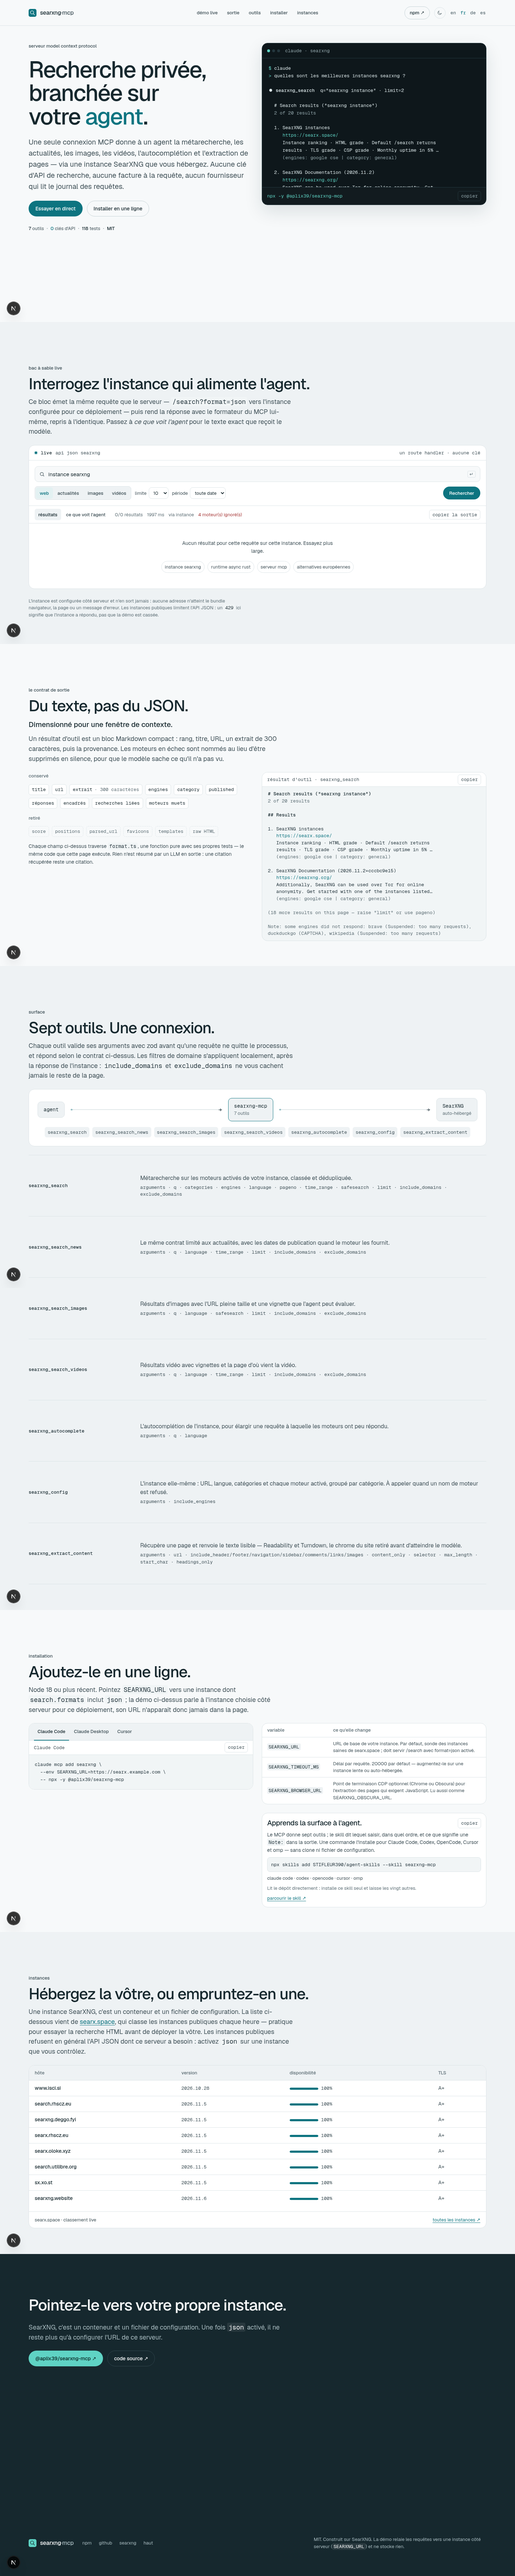
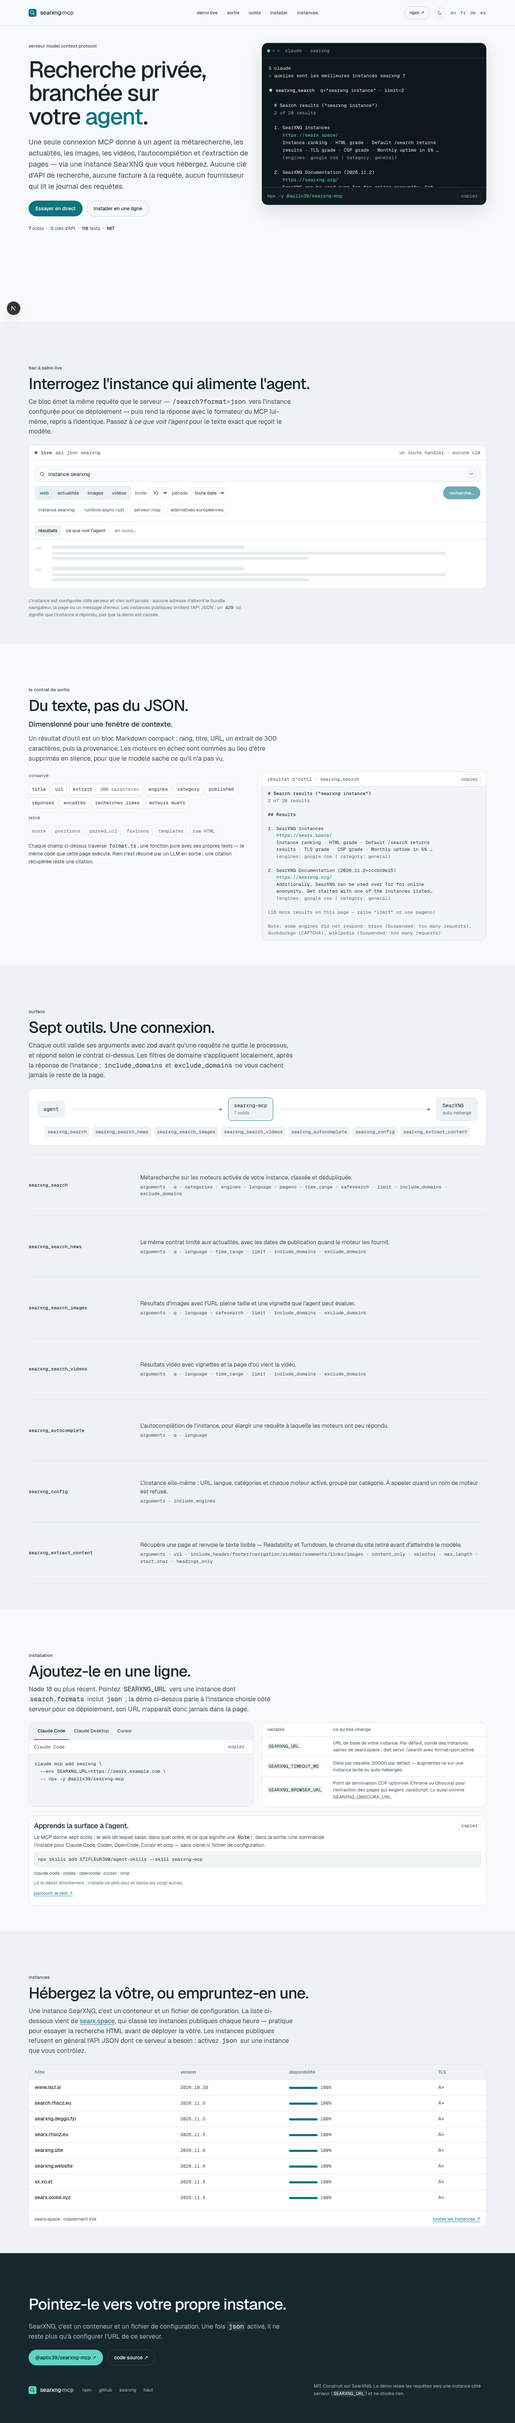
fix(design): rebalance the install grid, fix dark-theme code chips
- install: drop the install-side wrapper, installer + env panel share row 1
  (equal heights), skill panel spans full width; env table stacks <=1023px
  (fixes clipped SEARXNG_OBSCURA_URL and 102px section spill at 768)
- footer chips: color-mix currentColor so they invert in the light footer
  under dark theme (was white-on-white)
- evidence: refreshed .taste-skill/after shots

diff --git a/app/globals.css b/app/globals.css
@@ -1597,7 +1597,7 @@ footer.closing {
   display: grid;
   grid-template-columns: repeat(12, minmax(0, 1fr));
   gap: var(--gutter);
-  align-items: start;
+  align-items: stretch;
   flex: 1;
   min-height: 0;
 }
@@ -1707,12 +1707,12 @@ footer.closing {
   white-space: pre-wrap;
 }
 
-.install-side {
-  display: flex;
+.env-panel {
   grid-column: 7 / -1;
-  flex-direction: column;
-  gap: 24px;
-  min-height: 0;
+}
+
+.skill-panel {
+  grid-column: 1 / -1;
 }
 
 .env-panel,
@@ -1778,6 +1778,7 @@ footer.closing {
 }
 
 .skill-lead {
+  max-width: 92ch;
   color: var(--muted);
   font-size: 14px;
   line-height: 1.55;
@@ -1913,6 +1914,7 @@ footer.closing {
 /* ---------- footer / close ---------- */
 
 footer.closing {
+  height: auto;
   background: var(--inv-bg);
   color: var(--inv-ink);
 }
@@ -1944,7 +1946,7 @@ footer.closing {
 }
 
 .close .lead code {
-  background: rgb(255 255 255 / 0.08);
+  background: color-mix(in srgb, currentColor 12%, transparent);
   color: var(--inv-ink);
 }
 
@@ -2012,7 +2014,7 @@ footer.closing {
 }
 
 .legal code {
-  background: rgb(255 255 255 / 0.08);
+  background: color-mix(in srgb, currentColor 12%, transparent);
   color: var(--inv-ink);
   font-size: 13px;
 }
@@ -2174,7 +2176,8 @@ footer.closing {
   }
 
   .installer,
-  .install-side {
+  .env-panel,
+  .skill-panel {
     grid-column: 1 / -1;
   }
 
@@ -2182,8 +2185,33 @@ footer.closing {
     min-height: 340px;
   }
 
-  .install-side {
-    gap: 16px;
+  .env thead {
+    display: none;
+  }
+
+  .env tr {
+    display: block;
+    padding: 8px 0;
+    border-bottom: 1px solid var(--line);
+  }
+
+  .env tr:last-child {
+    border-bottom: 0;
+  }
+
+  .env td {
+    display: block;
+    padding: 2px 14px;
+    border: 0;
+  }
+
+  .env td:first-child {
+    padding-top: 8px;
+  }
+
+  .env td code {
+    white-space: normal;
+    overflow-wrap: anywhere;
   }
 }
 
@@ -2194,10 +2222,13 @@ footer.closing {
   }
 
   .installer,
-  .install-side {
+  .env-panel {
     grid-column: auto;
   }
 
+  .skill-panel {
+    grid-column: 1 / -1;
+  }
 }
 
 @media (min-width: 1024px) and (max-width: 1100px) {
@@ -2250,8 +2281,7 @@ footer.closing {
     --gutter: 12px;
   }
 
-  main > section:not(.hero),
-  footer.closing {
+  main > section:not(.hero) {
     height: calc(var(--hm, var(--h, 1)) * 100lvh);
     padding-bottom: calc(var(--padb) + var(--bar));
   }
@@ -2433,35 +2463,6 @@ footer.closing {
 
   .skill-panel {
     padding: 14px;
-  }
-
-  .env thead {
-    display: none;
-  }
-
-  .env tr {
-    display: block;
-    padding: 8px 0;
-    border-bottom: 1px solid var(--line);
-  }
-
-  .env tr:last-child {
-    border-bottom: 0;
-  }
-
-  .env td {
-    display: block;
-    padding: 2px 14px;
-    border: 0;
-  }
-
-  .env td:first-child {
-    padding-top: 8px;
-  }
-
-  .env td code {
-    white-space: normal;
-    overflow-wrap: anywhere;
   }
 
   .instances-table,

diff --git a/components/landing.tsx b/components/landing.tsx
@@ -524,8 +524,7 @@ export function Landing({
                 </fieldset>
               </div>
 
-              <div className="install-side">
-                <div className="env-panel" data-ui>
+              <div className="env-panel" data-ui>
                   <table className="env">
                     <thead>
                       <tr>
@@ -565,7 +564,6 @@ export function Landing({
                     {t.skill.repo}
                   </a>
                 </div>
-              </div>
             </div>
           </div>
         </section>
@@ -632,7 +630,7 @@ export function Landing({
         </section>
       </main>
 
-      <footer className="closing site-foot" style={size(1)}>
+      <footer className="closing site-foot">
         <div className="wrap">
           <div className="close">
             <h2>{t.cta.title}</h2>
